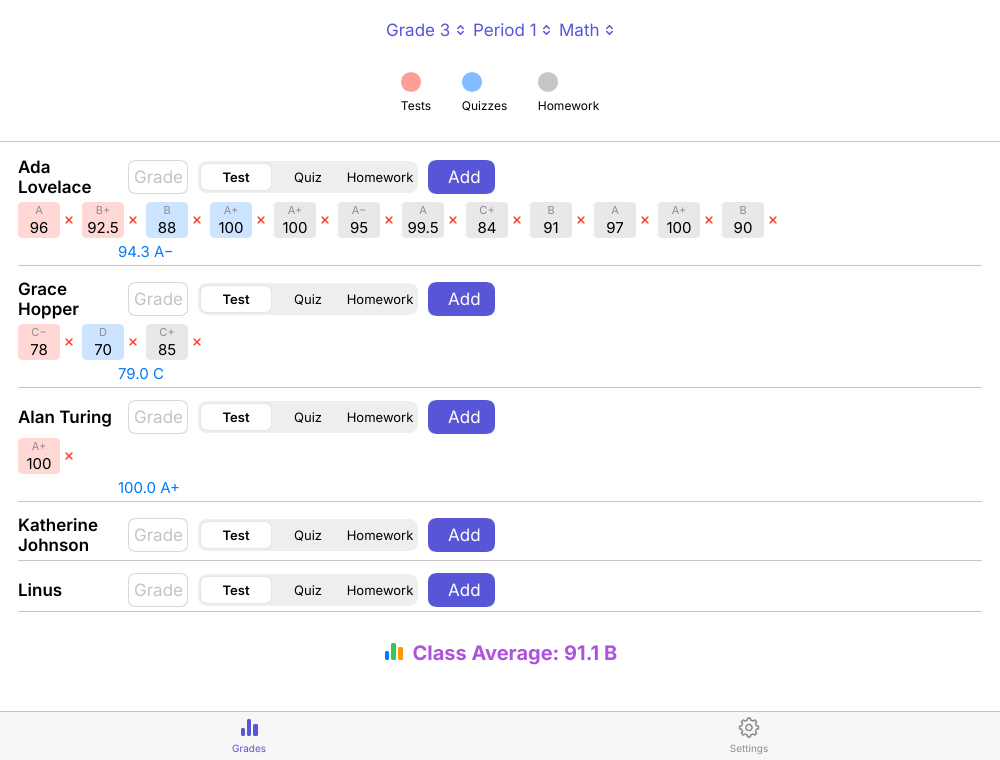
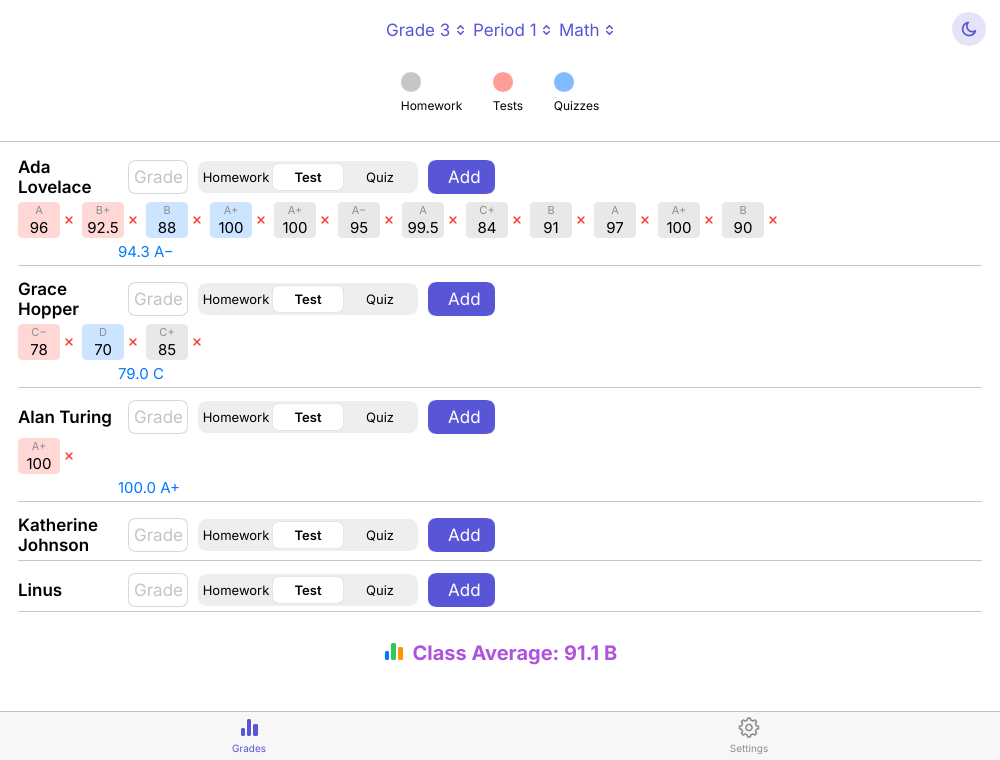
Refresh the README, screenshots and demo for the new UI
The screenshots and the light and dark demos show the Homework, Test, Quiz selector and the new light/dark button, and the demo now ends by switching the appearance. The README describes the new order, the button and the settings.json file.

diff --git a/README.md b/README.md
@@ -19,7 +19,7 @@ Weighted averages, letter grades and one-click backups, as a native app for Wind
 
 <picture>
   <source media="(prefers-color-scheme: dark)" srcset="docs/demo-dark.gif">
-  <img src="docs/demo-light.gif" alt="GradeBook in action: adding a score updates the averages, and changing the weights in Settings updates them again" width="760">
+  <img src="docs/demo-light.gif" alt="GradeBook in action: adding a score updates the averages, changing the weights in Settings updates them again, and the button in the corner switches between light and dark" width="760">
 </picture>
 
 </div>
@@ -29,7 +29,7 @@ Weighted averages, letter grades and one-click backups, as a native app for Wind
 - 📚 **Organised the way you teach.** Grade levels 1–10, six periods and 20 subjects, one class at a time.
 - ⚖ **Weighted averages.** Tests, quizzes and homework count as much as you decide (50 / 17 / 33 to begin with). The weights re-balance on their own for students who don't have every type of grade yet.
 - 🔤 **Letter grades that add up.** From A+ to F, including fractional scores: 91.5 is a B and 99.5 is an A.
-- 🌗 **Light and dark.** It follows your system's setting.
+- 🌗 **Light and dark.** It follows your system's setting, and a button in the corner switches it. GradeBook remembers your choice.
 - 💾 **Saves as you go.** Every change is written to disk straight away, in a way that can't leave a half-written file behind.
 - 🛟 **Backup and Restore.** The whole gradebook goes into one JSON file, and a restore keeps a safety copy of whatever it replaces.
 - ⚡ **Light on your computer.** A native Rust app built with [Slint](https://slint.dev): no browser engine and no GPU needed. On Linux the window opens in about half a second and the app idles at around 20 MB of memory.
@@ -61,9 +61,9 @@ Two screens, with a tab bar at the bottom to switch between them.
 ### Grades
 
 Choose a grade level (1–10), a period (1–6) and a subject (20 to choose from). Every student in that
-grade level gets a row. Choose **Test**, **Quiz** or **Homework**, type a score (decimals work:
-`92.5`, or `92,5`) and click **Add**. Scores appear as chips tinted by type (red for tests, blue for
-quizzes, grey for homework) with their letter grade, and the red × beside a score deletes it. Under
+grade level gets a row. Choose **Homework**, **Test** or **Quiz**, type a score (decimals work:
+`92.5`, or `92,5`) and click **Add**. Scores appear as chips tinted by type (grey for homework, red
+for tests, blue for quizzes) with their letter grade, and the red × beside a score deletes it. Under
 the chips is the student's weighted average with its letter grade, and the class average is at the
 bottom.
 
@@ -108,7 +108,7 @@ average always matches the rounded number displayed.
 | **From** | 100 | 96 | 94 | 92 | 88 | 86 | 84 | 79 | 76 | 70 | 63 | 0 |
 
 > [!TIP]
-> GradeBook follows your system's light or dark setting. To pick one yourself, set the `GRADEBOOK_THEME` environment variable to `light` or `dark`.
+> GradeBook follows your system's light or dark setting. To switch, click the moon or sun button in the top-right corner of either screen; GradeBook remembers your choice. To start in one or the other no matter what, set the `GRADEBOOK_THEME` environment variable to `light` or `dark`.
 
 ## Your data
 
@@ -124,6 +124,9 @@ GradeBook saves after every change, in `gradebook.json` in:
 `/Applications/GradeBook.app/Contents/MacOS/gradebook --data-dir`; the Windows build has no
 console window, so use the folder above). Set `GRADEBOOK_DATA_DIR` to keep the data somewhere
 else (for example on a USB stick). Uninstalling never deletes it.
+
+A small `settings.json` next to `gradebook.json` remembers your light or dark choice. It isn't part
+of a Backup.
 
 ### Backup and Restore
 
